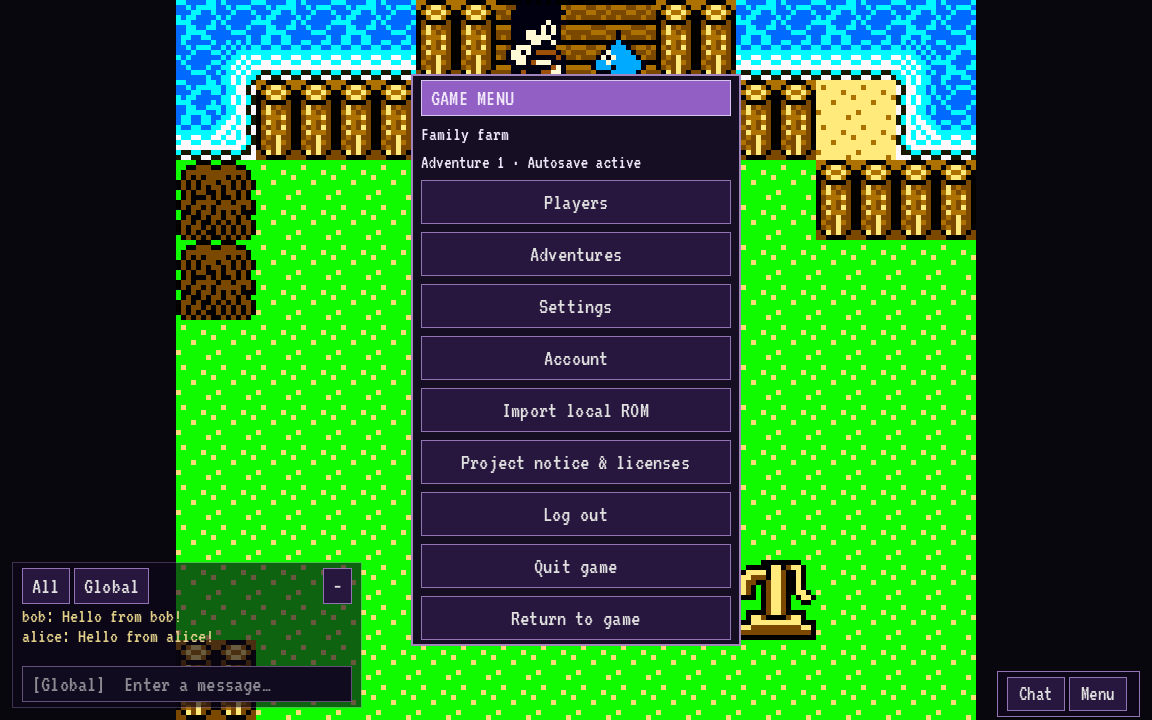
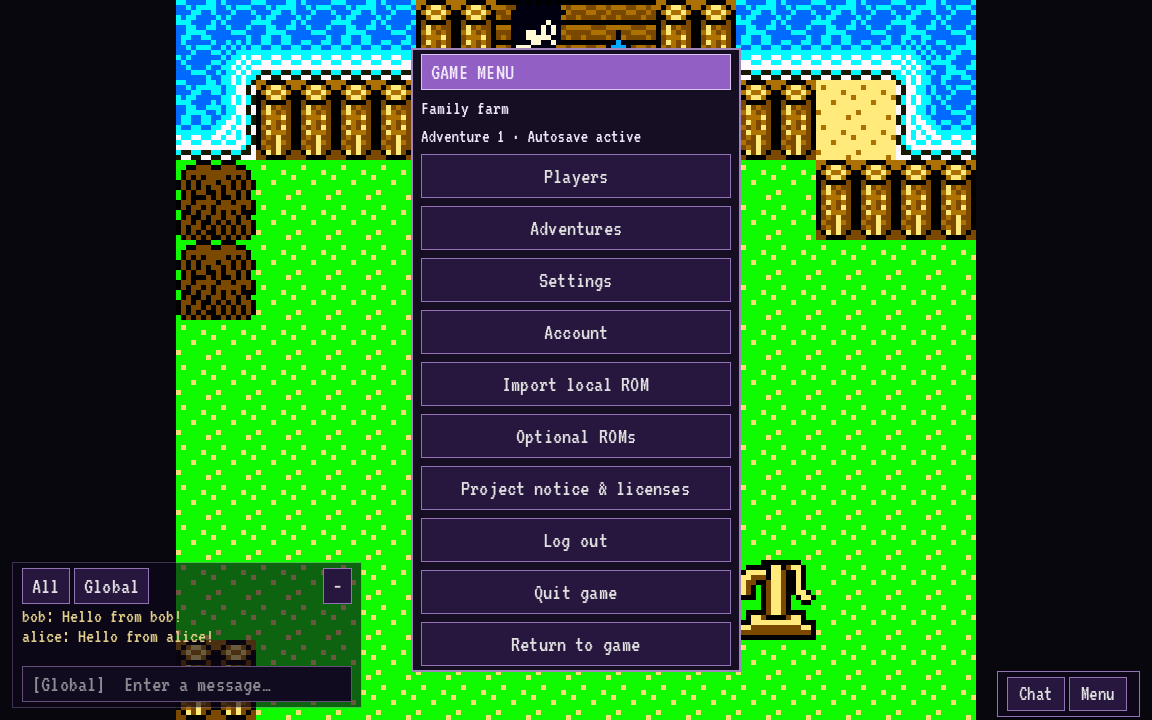
Release 0.2.4 optional local ROM imports and document starter/party requirements

Changed region(s): [[0.3438, 0.0611, 0.6562, 0.9472]]

diff --git a/web/public/index.html b/web/public/index.html
@@ -1,7 +1,7 @@
 <!doctype html>
 <html lang="en"><head><meta charset="utf-8"><meta name="viewport" content="width=device-width, initial-scale=1"><meta name="theme-color" content="#171024"><meta name="description" content="Play your own Cobi’s Journey ROM in a multiplayer client. Register, download the early alpha, and follow the open-source project."><title>Your adventure, together · DQM Online</title><link rel="icon" type="image/svg+xml" href="/DQM/assets/icon.svg"><link rel="stylesheet" href="/DQM/style.css?v=020"><script src="/DQM/app.js" defer></script></head><body><header class="header"><a class="brand" href="/DQM/"><span class="crest" aria-hidden="true">D</span>DQM<span class="brand-light">ONLINE</span></a><nav aria-label="Main navigation"><a href="/DQM/#screenshots">Screenshots</a><a href="/DQM/#download">Download</a><a href="/DQM/server/">Server</a><a href="/DQM/source/">Open source</a><a class="nav-play" href="/DQM/#register">Create account <span aria-hidden="true">↗</span></a></nav></header><main>
 <section class="hero">
- <div class="hero-copy"><p class="eyebrow"><span class="dot"></span> 403WORLD / DQM ONLINE</p><h1>Cobi’s Journey.<br><em>Online.</em></h1><p class="intro">Start at the family farm with live players, names above characters, and chat beside the adventure. Sign in, choose a server adventure, and join the alpha.</p><div class="hero-actions"><a class="button primary" href="#download">Get the client <span>↓</span></a><a class="text-link" href="#register">Create your account ↗</a></div><p class="release-label">0.2.3 ALPHA <span>Windows · Linux · Android</span></p></div>
+ <div class="hero-copy"><p class="eyebrow"><span class="dot"></span> 403WORLD / DQM ONLINE</p><h1>Cobi’s Journey.<br><em>Online.</em></h1><p class="intro">Start at the family farm with live players, names above characters, and chat beside the adventure. Sign in, choose a server adventure, and join the alpha.</p><div class="hero-actions"><a class="button primary" href="#download">Get the client <span>↓</span></a><a class="text-link" href="#register">Create your account ↗</a></div><p class="release-label">0.2.4 ALPHA <span>Windows · Linux · Android</span></p></div>
  <figure class="game-window"><div class="window-bar"><span>DQM ONLINE / COBI'S JOURNEY</span><span>EARLY ALPHA</span></div><a href="/DQM/assets/gameplay.png" aria-label="View full gameplay screenshot"><img src="/DQM/assets/gameplay.png" width="1152" height="720" alt="Two connected players named alice and bob at the family farm, with a small chat window and Menu button" fetchpriority="high"></a><figcaption>Actual client capture · two players connected to a development server.</figcaption></figure>
 </section>
 <section class="status-strip"><div><span class="status-light"></span><span data-server-status>Checking server…</span></div><div><strong data-player-count>—</strong> players online</div><a href="/DQM/server/">Server information ↗</a></section>
@@ -14,13 +14,13 @@
  </div>
  <p class="capture-note">Screenshots are from the current desktop client and a two-client development server session. Select an image to view it at full size.</p>
  <div class="feature-row"><article><h3>Your server adventure</h3><p>New adventures begin at the family farm, skipping the boat intro. Your local ROM supplies the campaign. Your account holds the adventures and saves on the server. Continue on another device after signing in.</p></article><article><h3>A shared adventure</h3><p>Sign in from the client, chat with other players, and see nearby adventurers with names above their characters. Keep chat open while you explore.</p></article><article><h3>Desktop + Android</h3><p>Keyboard and gamepad on desktop. Landscape play, multitouch controls, and an optional analog stick, adjustable controls, and full-screen stretch on Android.</p></article></div>
- <div class="alpha-note"><strong>Early alpha · still taking shape</strong><span>Shared-world coverage is limited. Original online battles, trades, and breeding are in development and have not been verified end to end.</span></div>
+ <p class="capture-note">Menu → Optional ROMs accepts your local Iru (GBC) and Caravan Heart (GBA) sources. Their shared-world regions are still in development; importing a ROM does not unlock them yet.</p><div class="alpha-note"><strong>Early alpha · still taking shape</strong><span>Shared-world coverage is limited. Original online battles, trades, and breeding are in development and have not been verified end to end.</span></div>
 </section>
 <section class="chapter" id="android">
  <div class="section-kicker">ANDROID / PLAY YOUR WAY</div>
  <div class="section-heading"><h2>Room for your thumbs.</h2><p>Larger movement and action buttons. Choose a D-pad or analog stick, change control size, and stretch the game to fill your screen in Menu → Settings.</p></div>
  <div class="screenshot-grid"><figure class="game-window"><div class="window-bar"><span>LARGE D-PAD</span><span>ANDROID UI</span></div><a href="/DQM/assets/android-controls.png"><img src="/DQM/assets/android-controls.png" width="1152" height="720" alt="Android layout preview with large D-pad and large A and B buttons" loading="lazy"></a><figcaption>Desktop-rendered Android layout preview. Physical-device testing is pending.</figcaption></figure><figure class="game-window"><div class="window-bar"><span>ANALOG OPTION</span><span>ANDROID UI</span></div><a href="/DQM/assets/android-analog.png"><img src="/DQM/assets/android-analog.png" width="1152" height="720" alt="Android layout preview with analog stick and A and B buttons" loading="lazy"></a><figcaption>Switch movement style in Settings. Size and stretch preferences are saved on your device.</figcaption></figure></div>
 </section>
-<section id="download" class="download-section"><div class="section-kicker">DOWNLOAD / 0.2.3 ALPHA</div><div class="section-heading"><h2>Choose your client.</h2><p>Download the client and follow the prompt to select your local USA Cobi’s Journey ROM. Create an account or sign in directly in the game, then select your adventure. An internet connection is required. Your ROM stays on your device. No ROM is included or uploaded.</p></div><p class="legal-note">Unofficial fan project; not affiliated with or endorsed by Square Enix or Nintendo. No ROM is included or provided. You must have the legal right to use your own compatible ROM. <a href="/DQM/legal.html">Read the project notice.</a></p><div class="download-list" id="downloads"><p>Loading available builds…</p></div><p class="fine-print">Desktop: keyboard or gamepad, with a game HUD. Android: landscape display and multitouch controls. Online-only alpha. Progress autosaves to the server; an unexpected disconnect resumes the last confirmed checkpoint. Version 0.2 adds automatic update downloads. Desktop restarts after updating; Android asks you to confirm installation. Older clients need one manual update.</p></section>
+<section id="download" class="download-section"><div class="section-kicker">DOWNLOAD / 0.2.4 ALPHA</div><div class="section-heading"><h2>Choose your client.</h2><p>Download the client and follow the prompt to select your local USA Cobi’s Journey ROM. Create an account or sign in directly in the game, then select your adventure. An internet connection is required. Your ROM stays on your device. No ROM is included or uploaded.</p></div><p class="legal-note">Unofficial fan project; not affiliated with or endorsed by Square Enix or Nintendo. No ROM is included or provided. You must have the legal right to use your own compatible ROM. <a href="/DQM/legal.html">Read the project notice.</a></p><div class="download-list" id="downloads"><p>Loading available builds…</p></div><p class="fine-print">Desktop: keyboard or gamepad, with a game HUD. Android: landscape display and multitouch controls. Online-only alpha. Progress autosaves to the server; an unexpected disconnect resumes the last confirmed checkpoint. Version 0.2 adds automatic update downloads. Desktop restarts after updating; Android asks you to confirm installation. Older clients need one manual update.</p></section>
 <section id="register" class="account-section"><div class="account-copy"><div class="section-kicker">ACCOUNT / JOIN THE SERVER</div><h2>Choose your name.<br> <em>Join the journey.</em></h2><p>Create your account here or directly in the game client. Use the same account in both. Your password is never stored in the client. No email address is required.</p><p class="fine-print">Please read the <a href="/DQM/legal.html">project notice</a> before downloading or playing.</p><p class="fine-print">Keep your password safe. Self-service password recovery is not available in this alpha.</p></div><div class="account-card"><div class="window-bar"><span>ADVENTURER ACCOUNT</span><span>403WORLD</span></div><div class="account-tabs" role="tablist" aria-label="Account action"><button id="register-tab" role="tab" aria-selected="true" aria-controls="account-form" data-mode="register">Create account</button><button id="login-tab" role="tab" aria-selected="false" aria-controls="account-form" data-mode="login">Sign in</button></div><form id="account-form"><label for="username">Account name</label><input id="username" name="username" autocomplete="username" minlength="3" maxlength="24" pattern="[A-Za-z0-9_]{3,24}" placeholder="Your adventurer name" required><span class="field-hint">3–24 letters, numbers, or underscores.</span><label for="password">Password</label><input id="password" name="password" type="password" autocomplete="new-password" minlength="12" maxlength="128" placeholder="At least 12 characters" required><div id="confirm-field"><label for="confirm">Confirm password</label><input id="confirm" name="confirm" type="password" autocomplete="new-password" minlength="12" maxlength="128" required></div><button class="button primary submit" type="submit">Create my account <span>↗</span></button><p class="form-message" id="form-message" role="status" aria-live="polite"></p><p class="fine-print">Registration does not require a ROM. To play, you must supply the supported local ROM yourself.</p></form></div></section>
 </main><footer><a class="brand" href="/DQM/">DQM ONLINE</a><p>An independent, open-source fan project. Not affiliated with Square Enix.<br>Bring your own ROM. No ROM downloads. Game imagery appears in screenshots only.</p><div><a href="/DQM/legal.html">Project notice</a> · <a href="/DQM/source/">Source & licenses ↗</a></div></footer></body></html>

diff --git a/web/public/source/index.html b/web/public/source/index.html
@@ -1,2 +1,2 @@
 <!doctype html>
-<html lang="en"><head><meta charset="utf-8"><meta name="viewport" content="width=device-width, initial-scale=1"><meta name="theme-color" content="#171024"><meta name="description" content="Play your own Cobi’s Journey ROM in a multiplayer client. Register, download the early alpha, and follow the open-source project."><title>Open source · DQM Online</title><link rel="icon" type="image/svg+xml" href="/DQM/assets/icon.svg"><link rel="stylesheet" href="/DQM/style.css?v=020"><script src="/DQM/app.js" defer></script></head><body><header class="header"><a class="brand" href="/DQM/"><span class="crest" aria-hidden="true">D</span>DQM<span class="brand-light">ONLINE</span></a><nav aria-label="Main navigation"><a href="/DQM/#screenshots">Screenshots</a><a href="/DQM/#download">Download</a><a href="/DQM/server/">Server</a><a href="/DQM/source/">Open source</a><a class="nav-play" href="/DQM/#register">Create account <span aria-hidden="true">↗</span></a></nav></header><main><section class="page-hero"><p class="eyebrow">BUILT IN THE OPEN</p><h1>The adventure<br><em>behind the adventure.</em></h1><p class="intro">The client, game server, account service, and deployment tools are open source. Read them, run them, or help make the journey better.</p><a class="button primary" href="/DQM/downloads/DQMOnline-source.zip">Download source <span>↓</span></a><p><a href="https://github.com/HelloSpaghettiBot/DQM-Online-">GitHub repository ↗</a></p></section><section class="chapter prose"><div class="section-kicker">SOURCE / LICENSES</div><h2>Yours to explore.</h2><p>DQMOnline is distributed under the GNU General Public License, version 2. The source download includes build instructions, the native emulator bridge, the Godot projects, the server, the website, and the patches needed to reproduce the build.</p><p>The emulator is based on Gambatte. Godot and godot-cpp use the MIT license; the SQLite extension also uses the MIT license. Their notices and pinned dependency sources are documented in the source archive.</p><div class="feature-row"><article><h3>Client</h3><p>Original-engine campaign play, desktop input, larger Android D-pad and analog controls, online-only adventure loading, multiplayer HUD, and a verified-download updater.</p></article><article><h3>Server</h3><p>Authenticated player sessions, chat, invitation consent, cable relay, and transactional account-isolated server adventures.</p></article><article><h3>Website</h3><p>Registration, account login, release downloads, and server status, hosted on the same VPS.</p></article></div><p>The software license does not grant rights to the original game or screenshots. Read the <a href="/DQM/legal.html">project disclaimer</a>.</p><h3>What you will not find</h3><p>No commercial ROMs, playable extracted maps or sprites, music, account databases, credentials, private logs, saves, or signing keys are included. The website assets include the gameplay screenshots shown on these pages. Every player supplies their own compatible ROM locally.</p><h3>Current engineering priorities</h3><p>Extend server-side gameplay and economy validation, verify the nearby-player display across the campaign, complete original link-battle and trade tests, verify multiplayer breeding, and test exported clients on real Windows and Android devices.</p><a class="text-link" href="/DQM/server/">See current server and feature status ↗</a></section></main><footer><a class="brand" href="/DQM/">DQM ONLINE</a><p>An independent, open-source fan project. Not affiliated with Square Enix.<br>Bring your own ROM. No ROM downloads. Game imagery appears in screenshots only.</p><div><a href="/DQM/legal.html">Project notice</a> · <a href="/DQM/source/">Source & licenses ↗</a></div></footer></body></html>
+<html lang="en"><head><meta charset="utf-8"><meta name="viewport" content="width=device-width, initial-scale=1"><meta name="theme-color" content="#171024"><meta name="description" content="Play your own Cobi’s Journey ROM in a multiplayer client. Register, download the early alpha, and follow the open-source project."><title>Open source · DQM Online</title><link rel="icon" type="image/svg+xml" href="/DQM/assets/icon.svg"><link rel="stylesheet" href="/DQM/style.css?v=020"><script src="/DQM/app.js" defer></script></head><body><header class="header"><a class="brand" href="/DQM/"><span class="crest" aria-hidden="true">D</span>DQM<span class="brand-light">ONLINE</span></a><nav aria-label="Main navigation"><a href="/DQM/#screenshots">Screenshots</a><a href="/DQM/#download">Download</a><a href="/DQM/server/">Server</a><a href="/DQM/source/">Open source</a><a class="nav-play" href="/DQM/#register">Create account <span aria-hidden="true">↗</span></a></nav></header><main><section class="page-hero"><p class="eyebrow">BUILT IN THE OPEN</p><h1>The adventure<br><em>behind the adventure.</em></h1><p class="intro">The client, game server, account service, and deployment tools are open source. Read them, run them, or help make the journey better.</p><a class="button primary" href="https://github.com/HelloSpaghettiBot/DQM-Online-">View on GitHub <span>↗</span></a><p><a href="/DQM/downloads/DQMOnline-source.zip">Download matching source ZIP</a></p></section><section class="chapter prose"><div class="section-kicker">SOURCE / LICENSES</div><h2>Yours to explore.</h2><p>DQMOnline is distributed under the GNU General Public License, version 2. The source download includes build instructions, the native emulator bridge, the Godot projects, the server, the website, and the patches needed to reproduce the build.</p><p>The emulator is based on Gambatte. Godot and godot-cpp use the MIT license; the SQLite extension also uses the MIT license. Their notices and pinned dependency sources are documented in the source archive.</p><div class="feature-row"><article><h3>Client</h3><p>Original-engine campaign play, desktop input, larger Android D-pad and analog controls, online-only adventure loading, multiplayer HUD, and a verified-download updater.</p></article><article><h3>Server</h3><p>Authenticated player sessions, chat, invitation consent, cable relay, and transactional account-isolated server adventures.</p></article><article><h3>Website</h3><p>Registration, account login, release downloads, and server status, hosted on the same VPS.</p></article></div><p>The software license does not grant rights to the original game or screenshots. Read the <a href="/DQM/legal.html">project disclaimer</a>.</p><h3>What you will not find</h3><p>No commercial ROMs, playable extracted maps or sprites, music, account databases, credentials, private logs, saves, or signing keys are included. The website assets include the gameplay screenshots shown on these pages. Every player supplies their own compatible ROM locally.</p><h3>Current engineering priorities</h3><p>Extend server-side gameplay and economy validation, verify the nearby-player display across the campaign, complete original link-battle and trade tests, verify multiplayer breeding, and test exported clients on real Windows and Android devices.</p><a class="text-link" href="/DQM/server/">See current server and feature status ↗</a></section></main><footer><a class="brand" href="/DQM/">DQM ONLINE</a><p>An independent, open-source fan project. Not affiliated with Square Enix.<br>Bring your own ROM. No ROM downloads. Game imagery appears in screenshots only.</p><div><a href="/DQM/legal.html">Project notice</a> · <a href="/DQM/source/">Source & licenses ↗</a></div></footer></body></html>

diff --git a/README.md b/README.md
@@ -4,7 +4,7 @@ An open-source Windows, Linux and Android client for playing a locally supplied
 **Dragon Warrior Monsters 2: Cobi’s Journey (USA)** ROM with an online HUD,
 nearby players, chat and account-based server adventures.
 
-**Development alpha · 0.2.3 · November 5, 2026**
+**Development alpha · 0.2.4 · November 5, 2026**
 
 [GitHub](https://github.com/HelloSpaghettiBot/DQM-Online-) ·
 [Play & download](https://403world.com/DQM/) ·
@@ -104,12 +104,16 @@ upgrade before automatic updates are available.
 The target is one MMO: optional local ROMs expand the shared world and keep the
 same account/character, rather than separate emulator campaigns. Iru (GBC) and
 Caravan Heart (GBA) identities are verified; their region/content integration is
-not yet playable. See [optional expansions](docs/EXPANSIONS.md).
+not yet playable. Menu → Optional ROMs can import and retain both sources locally;
+imports do not unlock their regions yet. See [optional expansions](docs/EXPANSIONS.md).
 
 - Campaign-wide presence, procedural key-world identity, camera/occlusion and
   transition behavior beyond the verified areas.
 - Original-game online PvP, monster/key trading and multiplayer breeding.
   A generic cable-byte test is not proof that these transactions work.
+- New-adventure setup: optional full intro skip and a level-1 starter from
+  ordinary first-world encounters. This selection flow is still in development;
+  see [starter requirements](docs/STARTERS.md).
 - Parties: follow the leader into the same world without owning its key;
   independent battles; EXP split evenly among members in that world;
   individual loot. See [the agreed party requirements](docs/PARTIES.md).

diff --git a/docs/STARTERS.md b/docs/STARTERS.md
@@ -5,7 +5,10 @@ first monster instead of receiving the default Slime/Slib.
 
 - Starter choices are restricted to ordinary first-world encounter species at
   level 1; no bosses, rare/advanced monsters, high levels or boosted stats.
-  Verify each candidate against the actual first-world encounter data.
+  Candidate shortlist: SpotSlime, CactiBall, Crestpent and TailEater. Their
+  presence in the Cobi Oasis world is documented by Rena Chan’s original
+  monster-location guide. Confirm their game IDs/base data in the local ROM
+  before enabling them. KingCobra, bosses and later-world species are excluded.
 - Choices apply only when creating a new server adventure. Existing adventures
   retain their progress, monster roster, inventory and intro state.
 - Skip intro enters normal gameplay after the required opening setup. The
@@ -23,3 +26,5 @@ The published 0.2.3 host already starts new adventures at the farm after the
 boat, but does not yet provide this expanded skip-intro/starter-choice flow.
 No starter-choice feature should be advertised as working until original-game
 battle and reload checks pass.
+
+Encounter reference: [Rena Chan’s original guide](https://gamefaqs.gamespot.com/gbc/525414-dragon-warrior-monsters-2-cobis-journey/faqs/15103).

diff --git a/docs/TEST_RESULTS.md b/docs/TEST_RESULTS.md
@@ -167,3 +167,11 @@ The updated menu capture shows Quit game and no manual save button.
   monster/inventory memory unchanged.
 - Optional ROMs are shown as imported/missing with region integration pending.
   This does not establish playable regions or cross-game monster compatibility.
+
+## Optional import release — 0.2.4
+
+- Base Cobi autosave, server restart, fresh-device resume, slot isolation and
+  heartbeat disconnection checks pass after adding optional import support.
+- Existing player progress and the online-only campaign gate remain in use.
+- Both optional sources can be imported and removed locally. Regions, party
+  gameplay and starter selection remain explicitly unfinished.
